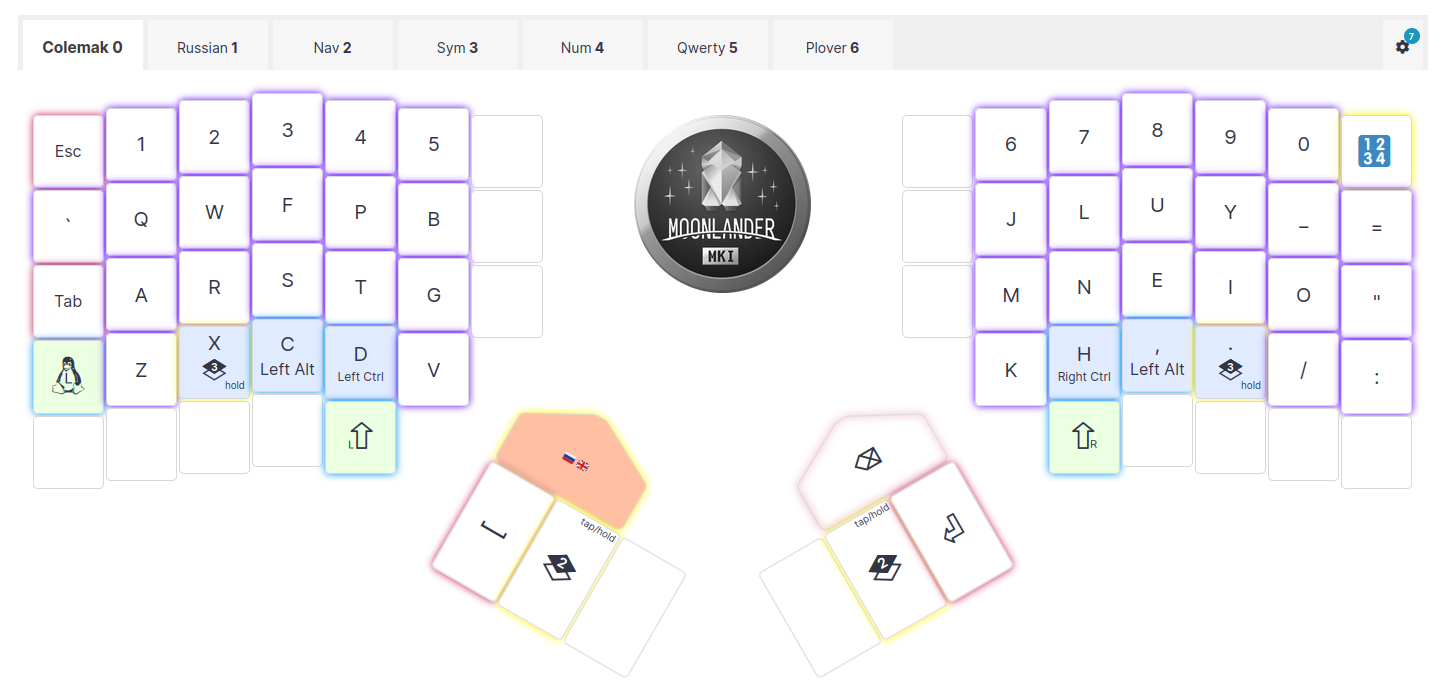
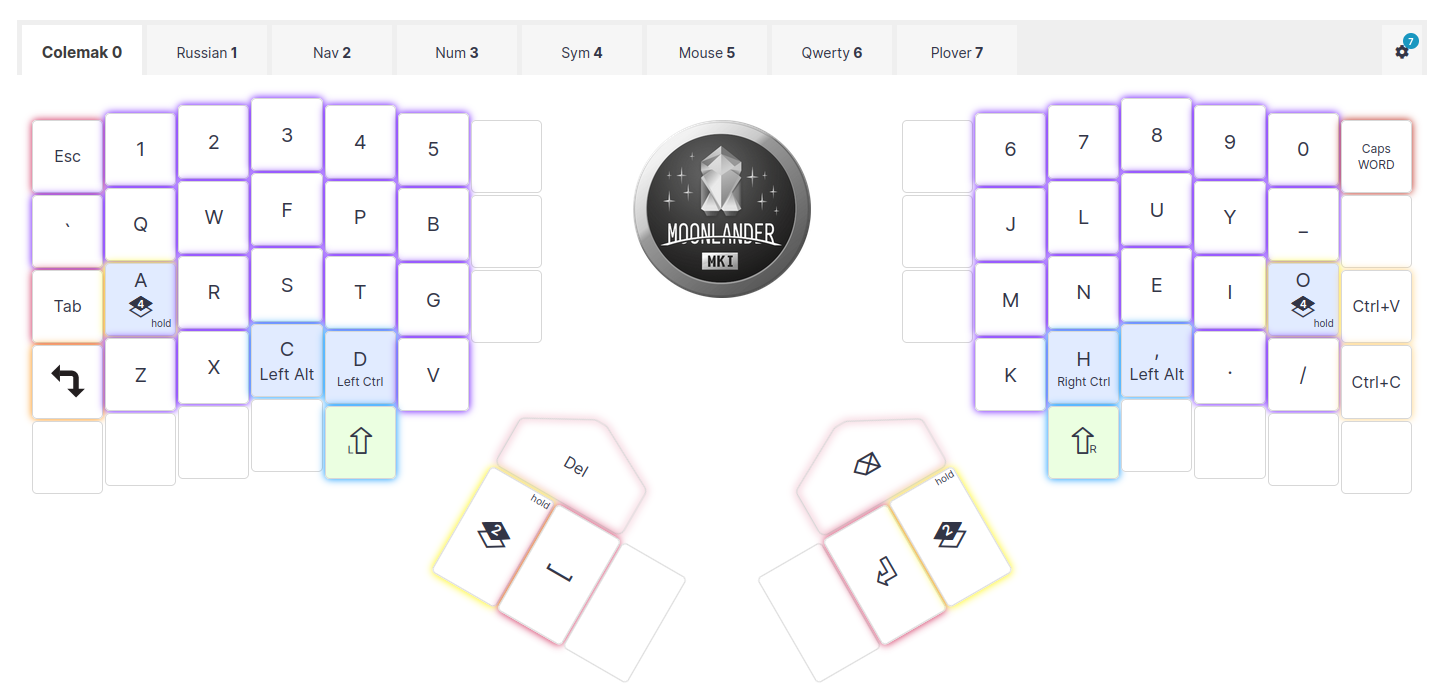
update images

diff --git a/README.md b/README.md
@@ -8,7 +8,8 @@ This layout uses 56 keys only and fits to Iris rev4 keyboard.
 <img src="img/0_colemak.png" width="768">
 <img src="img/1_russian.png" width="768">
 <img src="img/2_nav.png" width="768">
-<img src="img/3_sym.png" width="768">
-<img src="img/4_num.png" width="768">
-<img src="img/5_qwerty.png" width="768">
-<img src="img/6_plover.png" width="768">
+<img src="img/3_num.png" width="768">
+<img src="img/4_sym.png" width="768">
+<img src="img/5_mouse.png" width="768">
+<img src="img/6_qwerty.png" width="768">
+<img src="img/7_plover.png" width="768">
